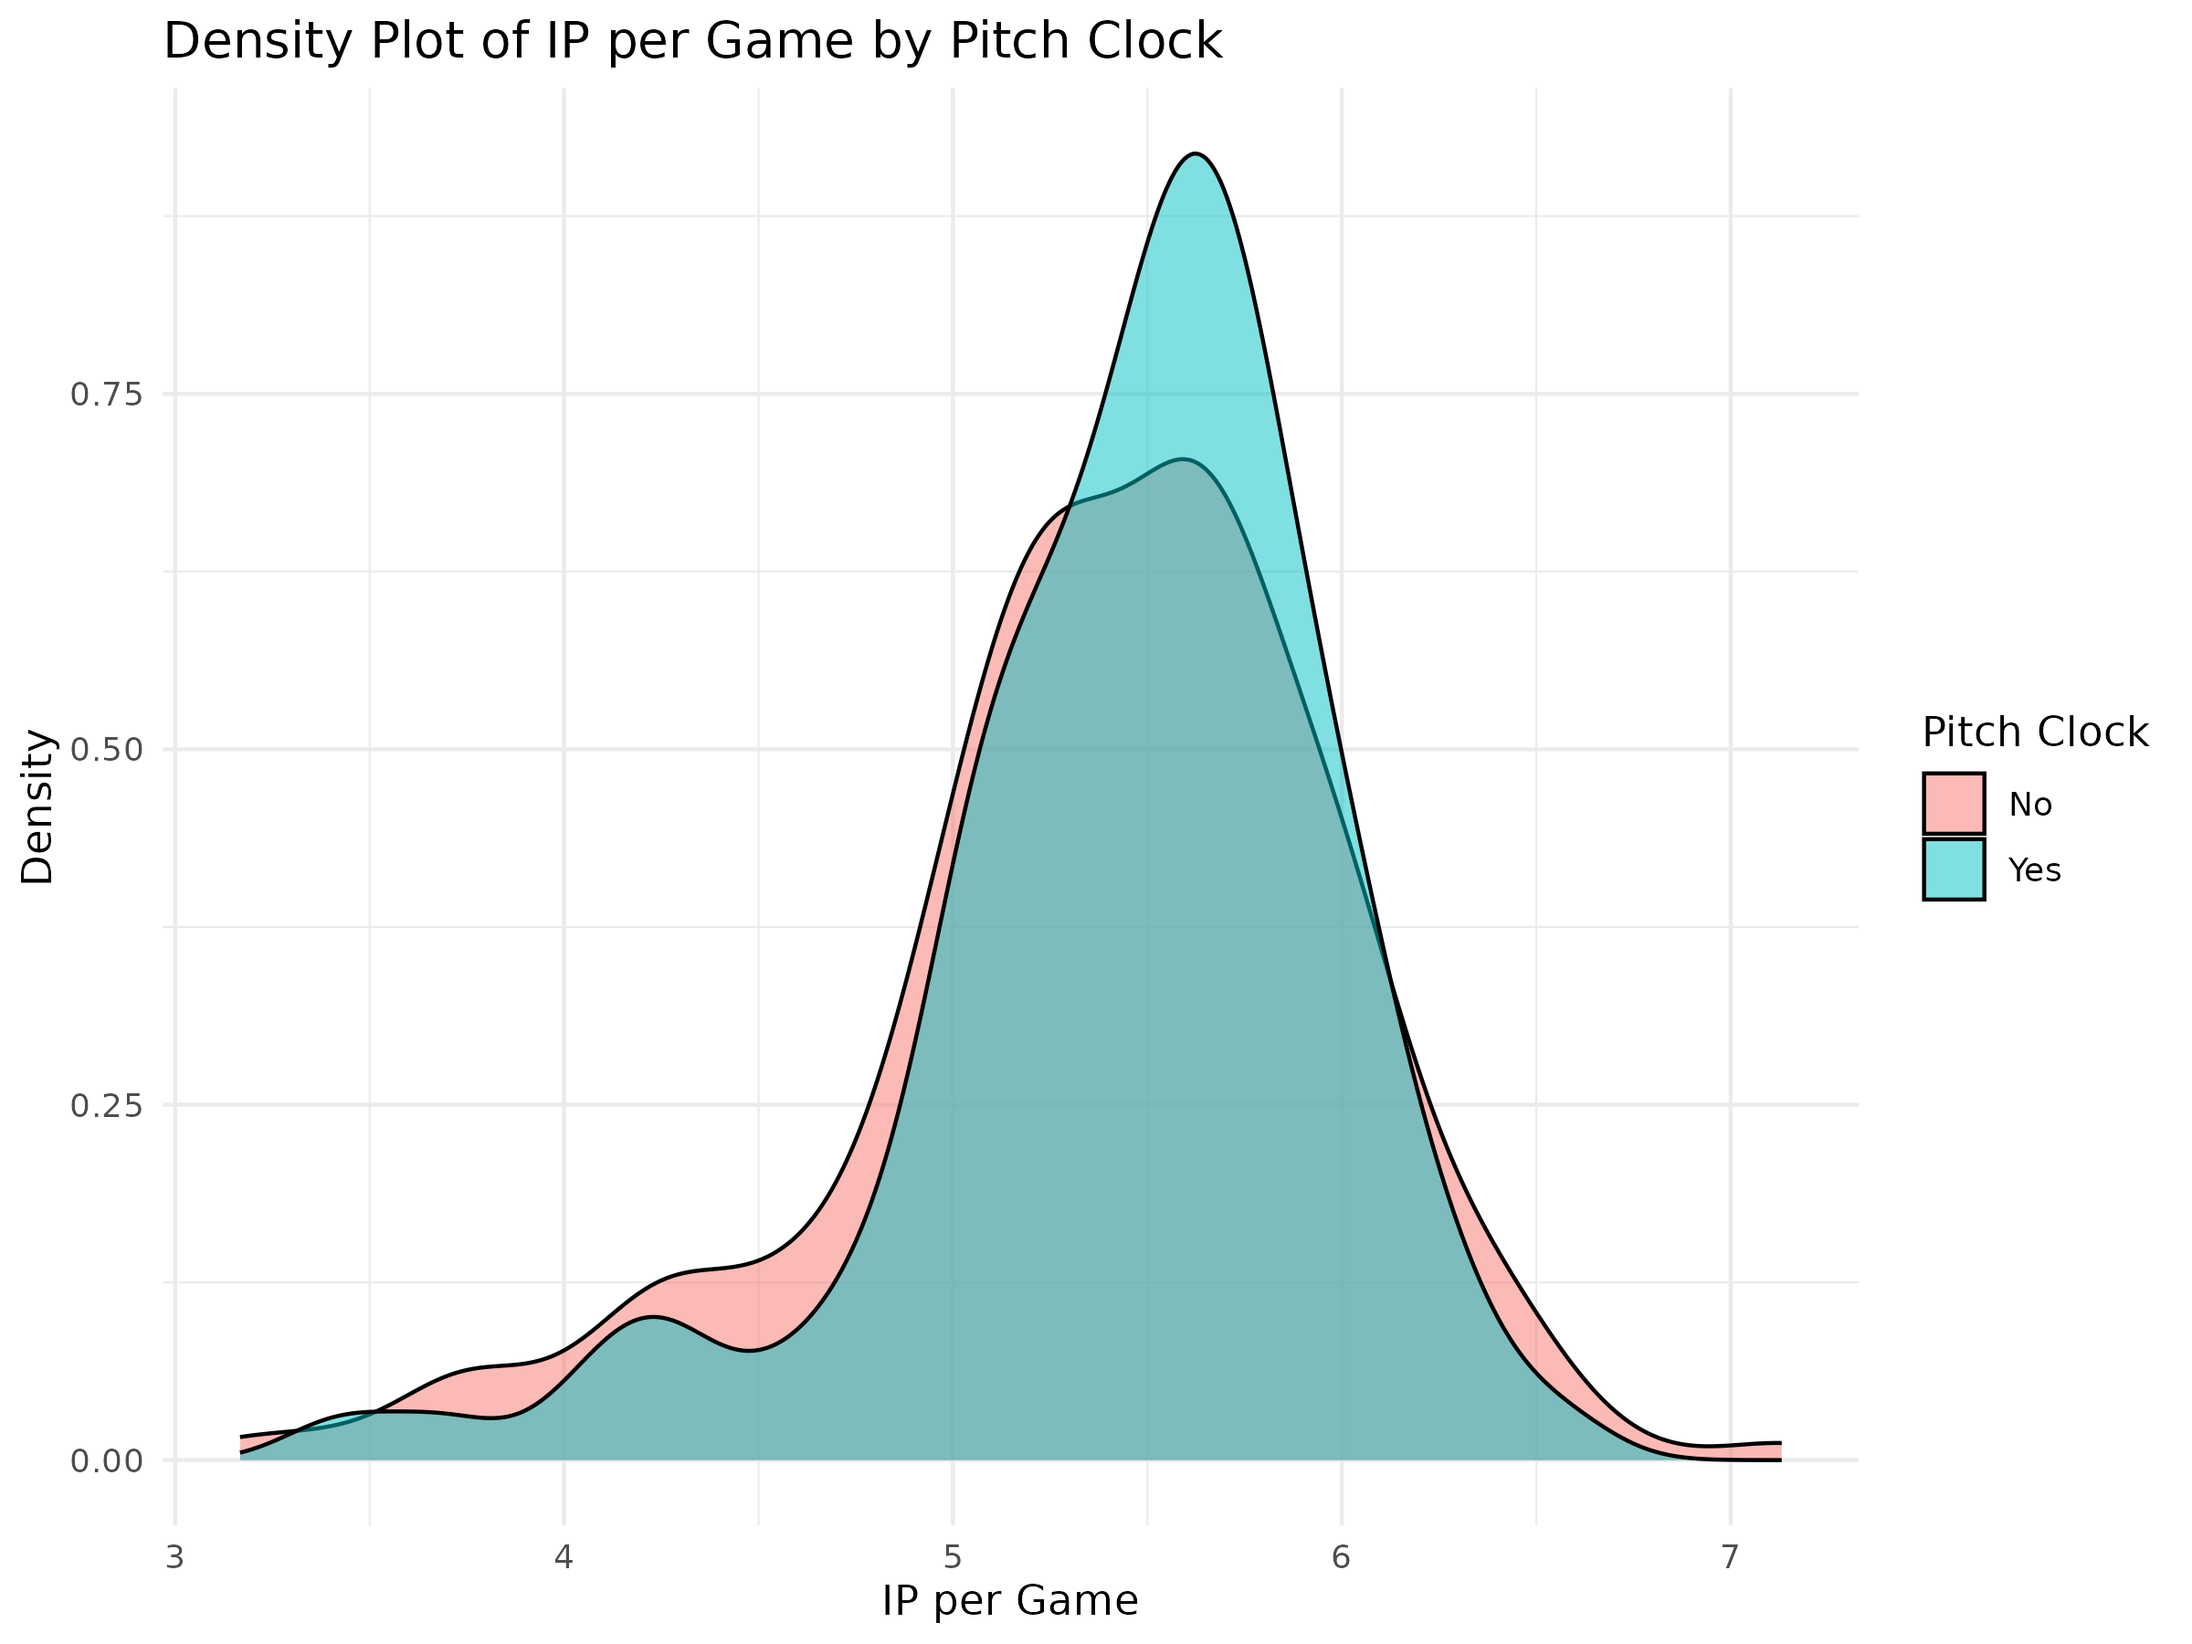
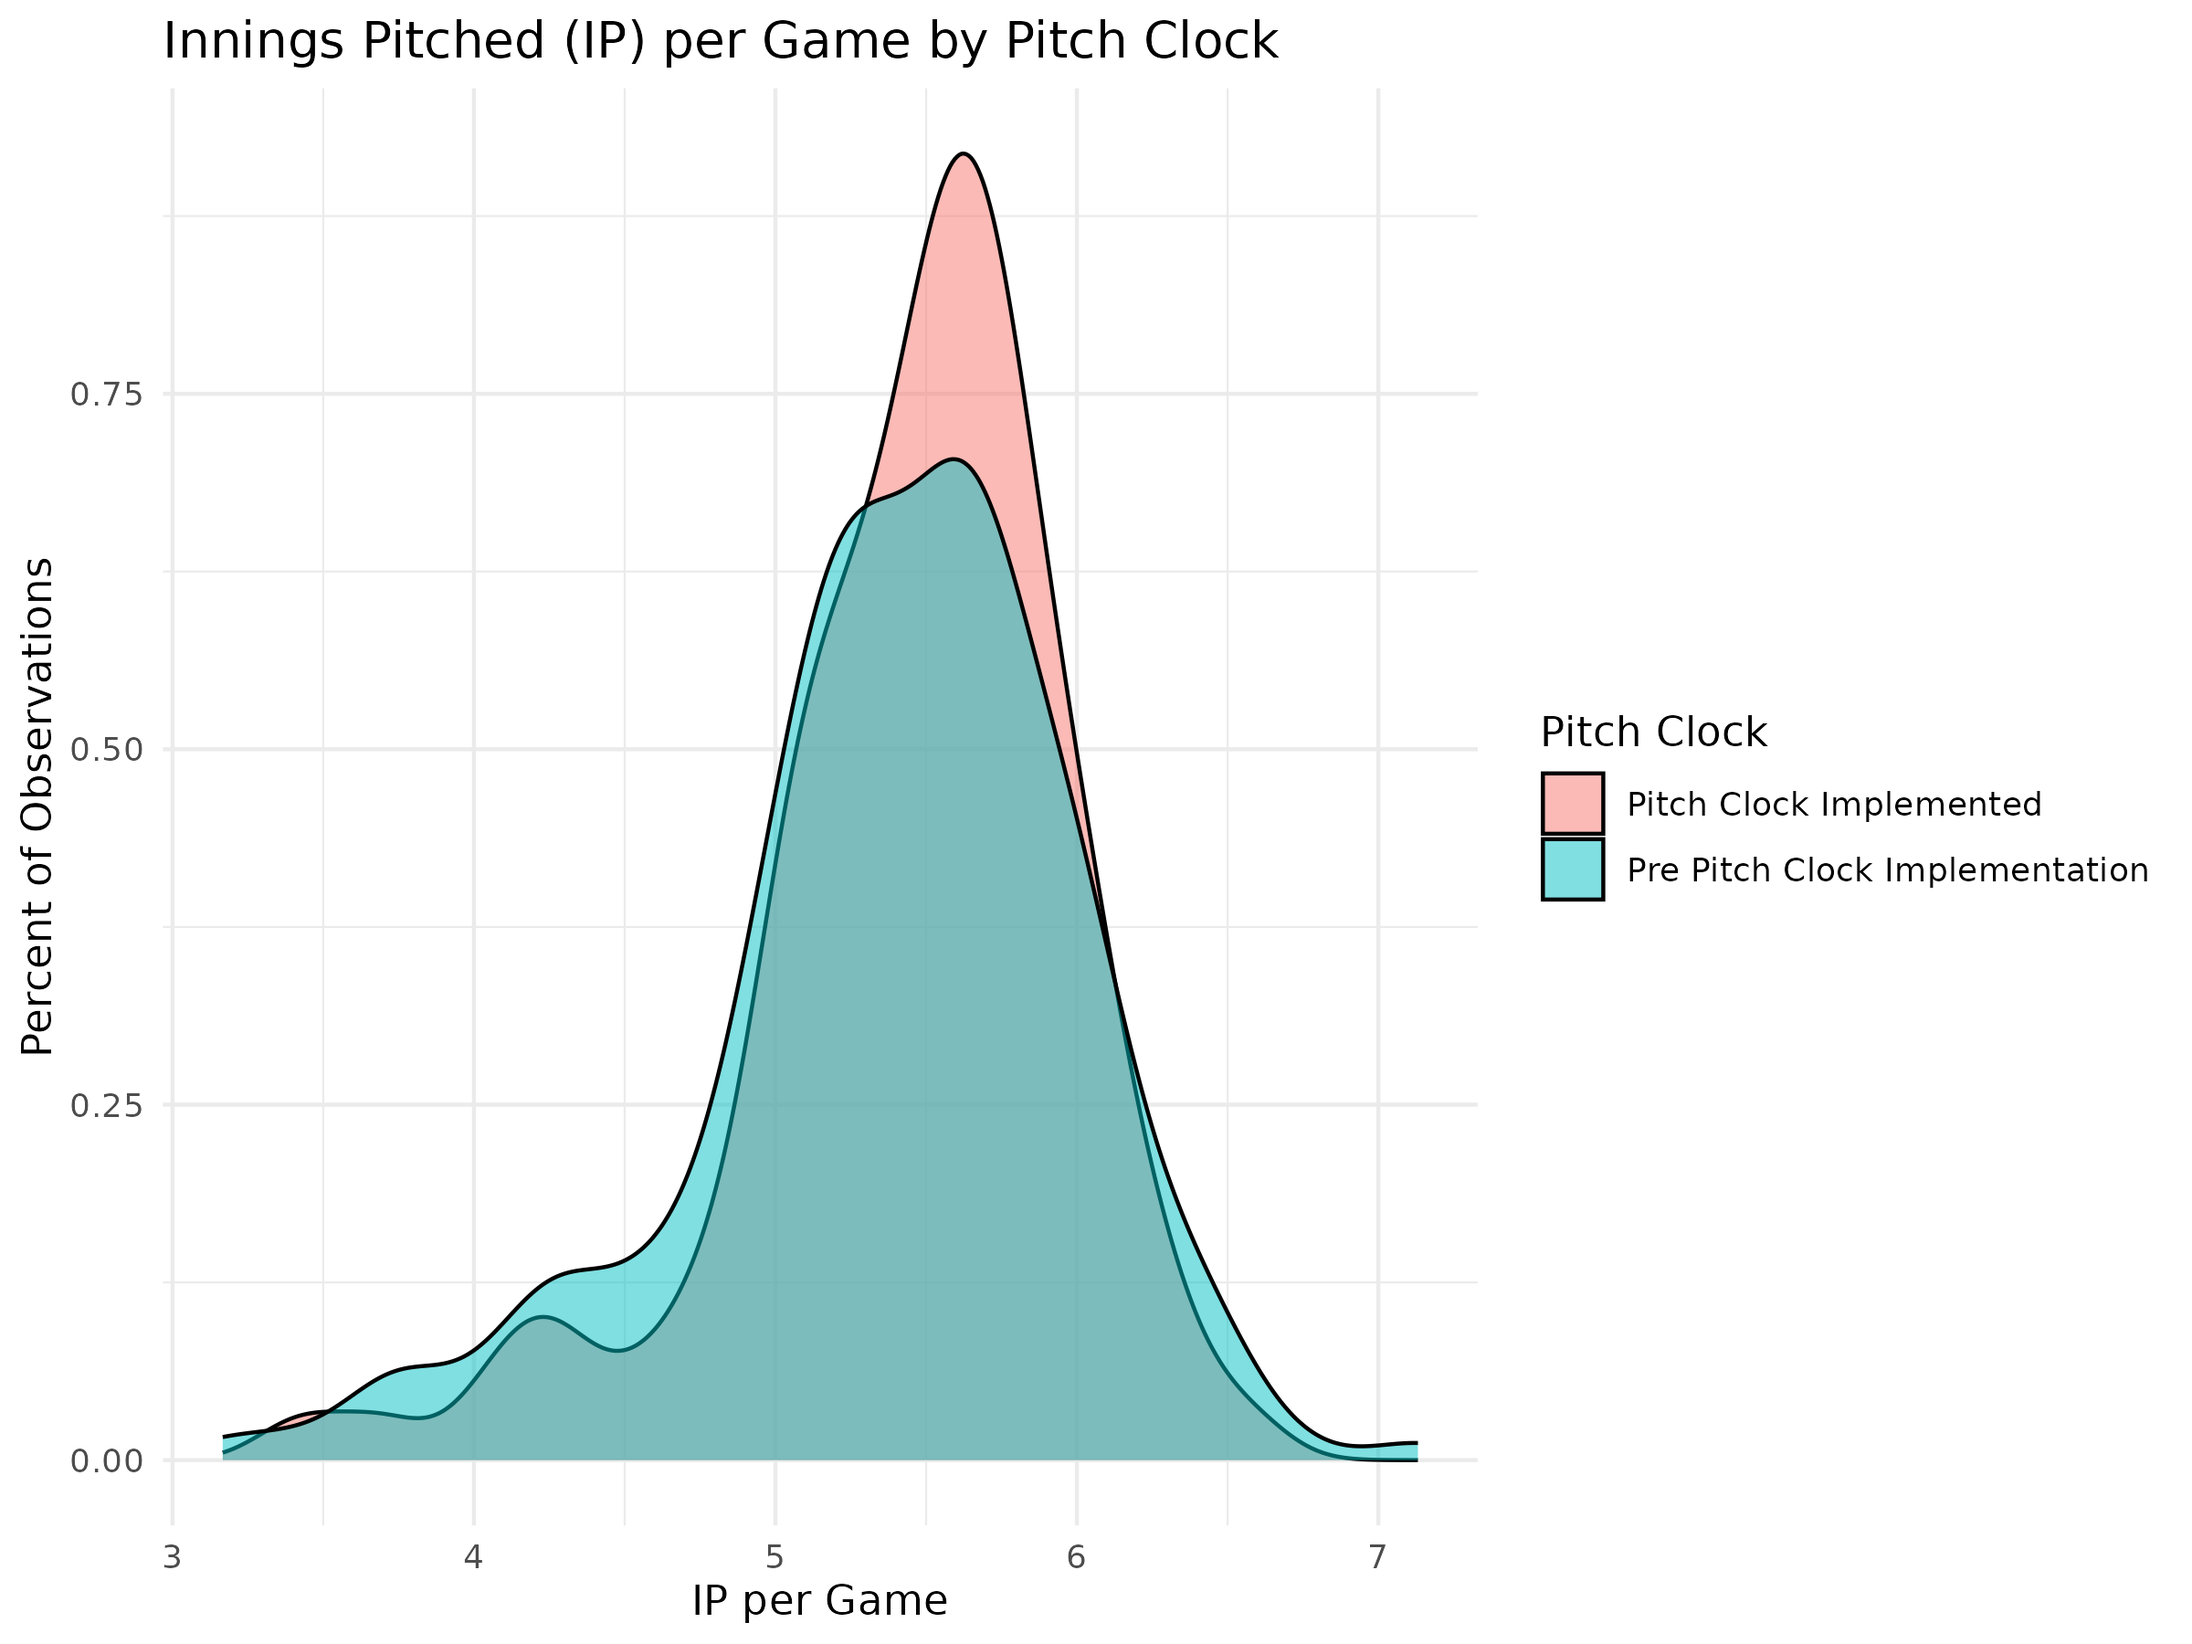
editing vis 2

diff --git a/memo/memo.md b/memo/memo.md
@@ -21,10 +21,23 @@ library(broom)
 ``` r
 baseball <- read.csv("../data/pitching_data_2021-2024.csv")
 baseball <- baseball %>%
-  mutate(pitch_clock = ifelse(year >= 2023, "Yes", "No"))
+  mutate(pitch_clock = ifelse(year >= 2023, "Pitch Clock Implemented", "Pre Pitch Clock Implementation"))
+
+# Step 1: Keep pitchers with all 4 years of data
+baseball_1plot <- baseball %>%
+  group_by(player_id) %>%
+  filter(all(c(2022, 2023) %in% year)) %>%
+  ungroup()
 
 # Step 2: Calculate adjusted pitches and strike rate row by row
-baseball_1plot <- baseball %>%
+baseball_1plot <- baseball_1plot %>%
+  mutate(
+    adjusted_total_pitches = p_total_pitches - ifelse(is.na(p_automatic_ball), 0, p_automatic_ball),
+    strike_percent = (p_total_strike / adjusted_total_pitches) * 100
+  ) %>%
+  filter(!is.na(pitch_clock), adjusted_total_pitches > 0)
+
+baseball <- baseball %>%
   mutate(
     adjusted_total_pitches = p_total_pitches - ifelse(is.na(p_automatic_ball), 0, p_automatic_ball),
     strike_percent = (p_total_strike / adjusted_total_pitches) * 100
@@ -45,7 +58,7 @@ baseball_1plot <- baseball_1plot %>%
 
 ## Plots
 
-### Plot 1: \_\_\_\_\_\_\_\_\_
+### Plot 1: Boxplot of Strike Percentage
 
 #### Data cleanup steps specific to plot 1
 
@@ -61,12 +74,28 @@ plot1_boxplot <- ggplot(baseball_1plot, aes(x = pitch_clock, y = avg_strike_perc
     title = "Strike % by Pitch Clock Era (Adjusted for Automatic Balls)",
     x = "Pitch Clock Implemented?",
     y = "Average Strike %"
-  ) 
+  ) +
+  theme(legend.position = "none")
 
 ggsave("strike_percent_by_pitch_clock.png", plot = plot1_boxplot, width = 8, height = 6)
 ```
 
 ### Plot 2: \_\_\_\_\_\_\_\_\_
+
+``` r
+baseball$ip_game <- baseball$p_formatted_ip/baseball$p_game
+densityplot <- ggplot(baseball, aes(x = ip_game, fill = factor(pitch_clock))) +
+  geom_density(alpha = 0.5) +
+  labs(
+    title = "Innings Pitched (IP) per Game by Pitch Clock",
+    x = "IP per Game",
+    y = "Percent of Observations",
+    fill = "Pitch Clock"
+  ) +
+  theme_minimal()
+
+ggsave("Innings_Pitcher_per_game.png", plot = densityplot, width = 8, height = 6)
+```
 
 ### Plot 3: \_\_\_\_\_\_\_\_\_\_\_
 
